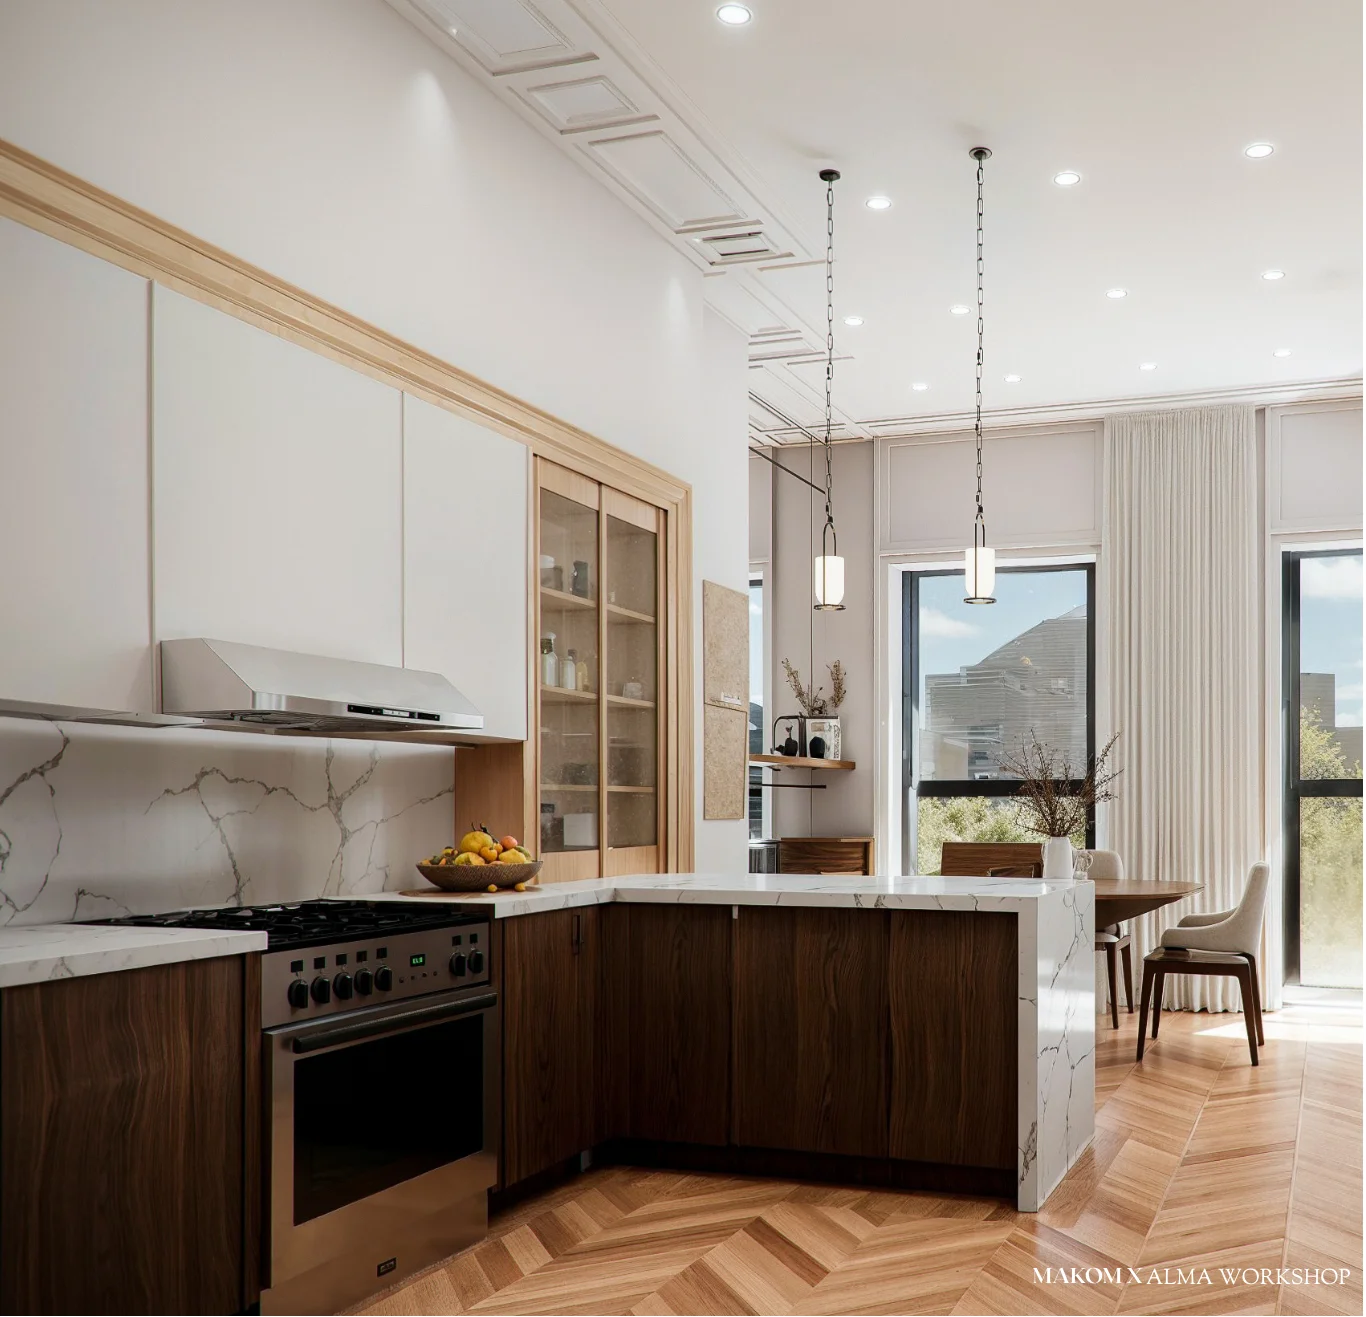
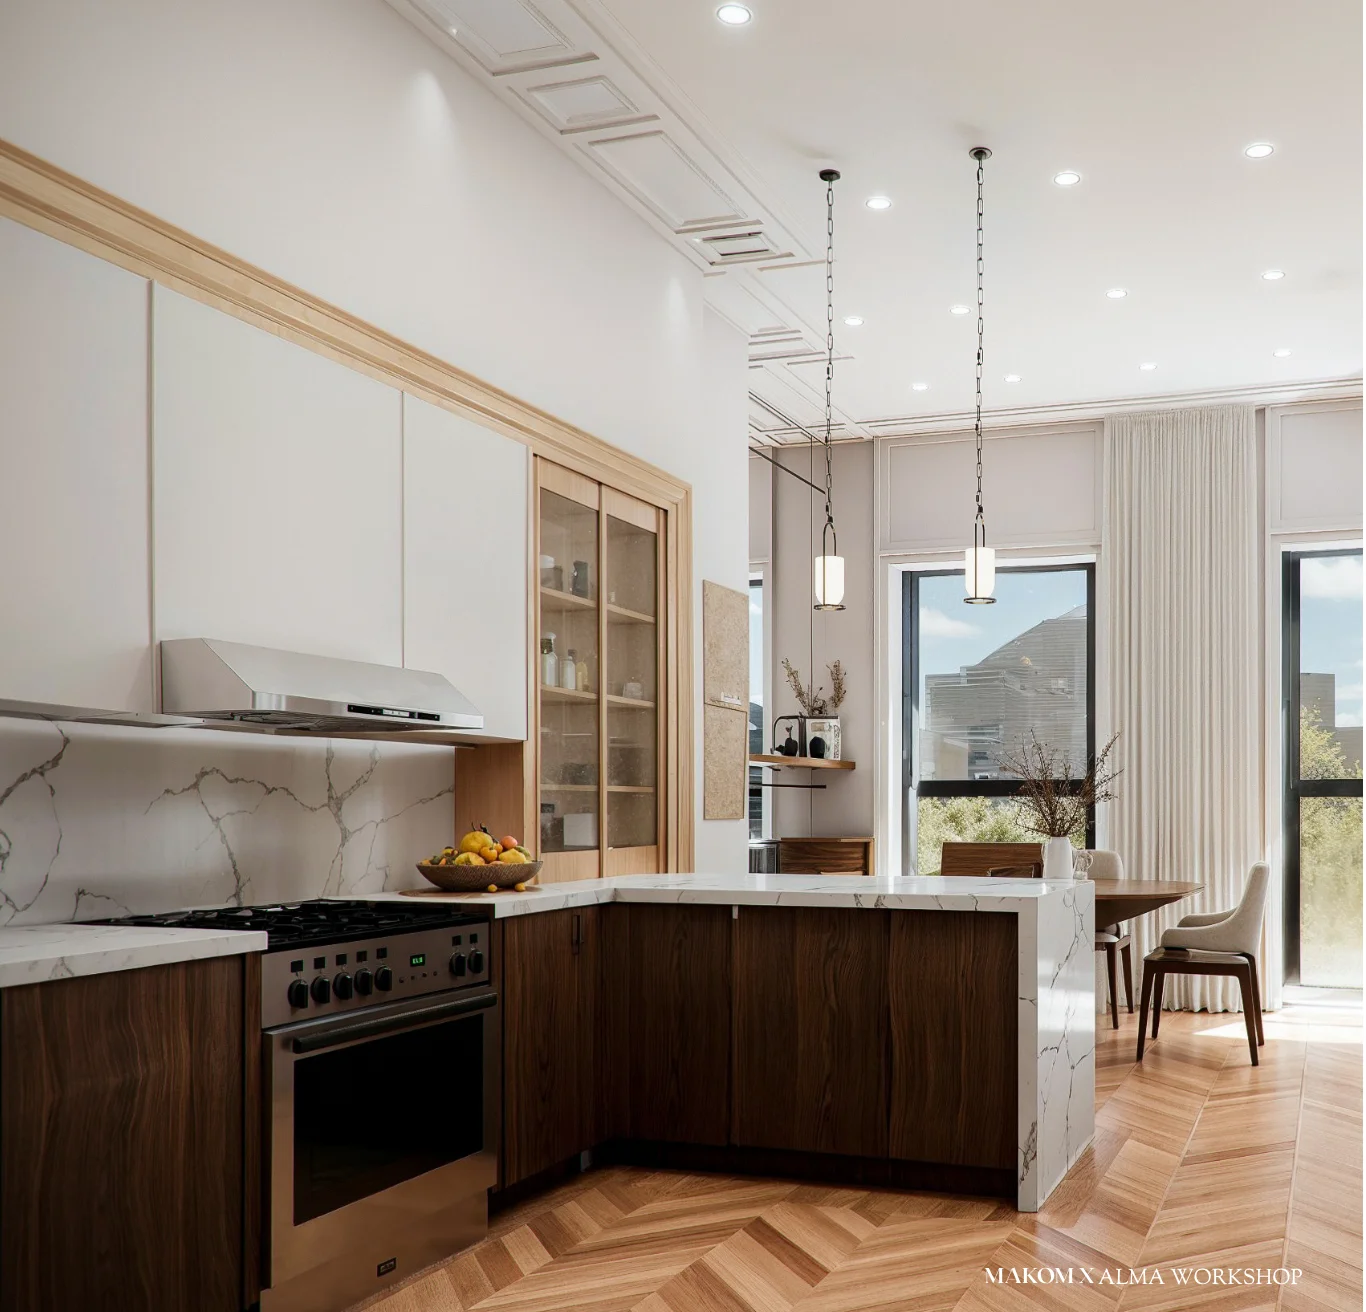
ajuste gallery and img

diff --git a/style.css b/style.css
@@ -845,13 +845,21 @@ footer a { color: var(--olive-branch); text-decoration: none; }
         font-size: 3px;
     }
 
-    .colab-v-top { top: 5px; right: -8px; writing-mode: vertical-lr; }
+    .colab-name{
+        letter-spacing: 0.5px;
+    }
+
+    .galery .fila .right{
+        gap: 10px;
+    }
+    
+    .colab-v-top { top: 5px; right: -5px; writing-mode: vertical-lr; }
 
     /* Segunda: Parte inferior, pegado derecha, lectura izq-der */
     .colab-h-bottom { bottom: -5px; right: 3px; }
 
     /* Tercera: Lado izquierdo, pegado abajo, lectura abajo-arriba */
-    .colab-v-bottom { bottom: 5px; left: -8px; writing-mode: vertical-lr; transform: rotate(180deg); }
+    .colab-v-bottom { bottom: 5px; left: -5px; writing-mode: vertical-lr; transform: rotate(180deg); }
 
 
     .galery .fila .rigth2 {
